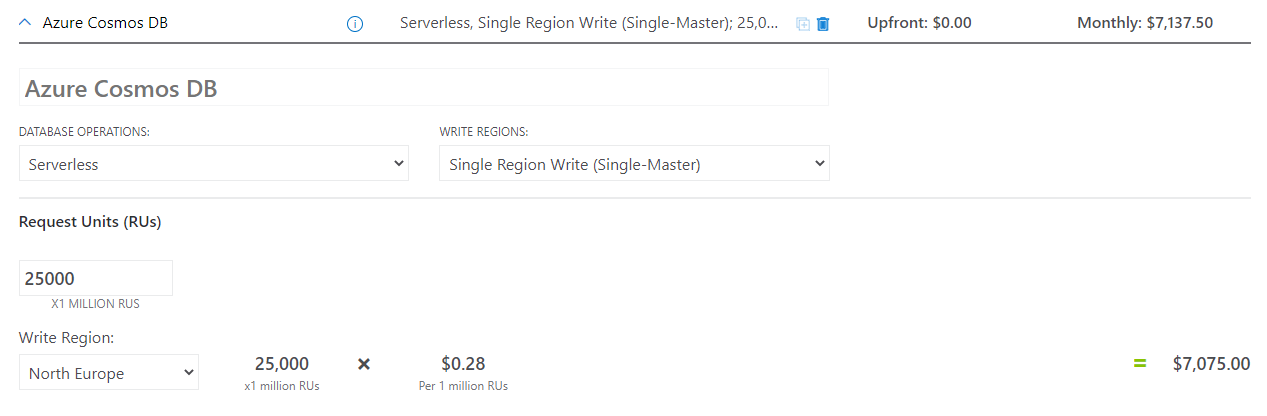
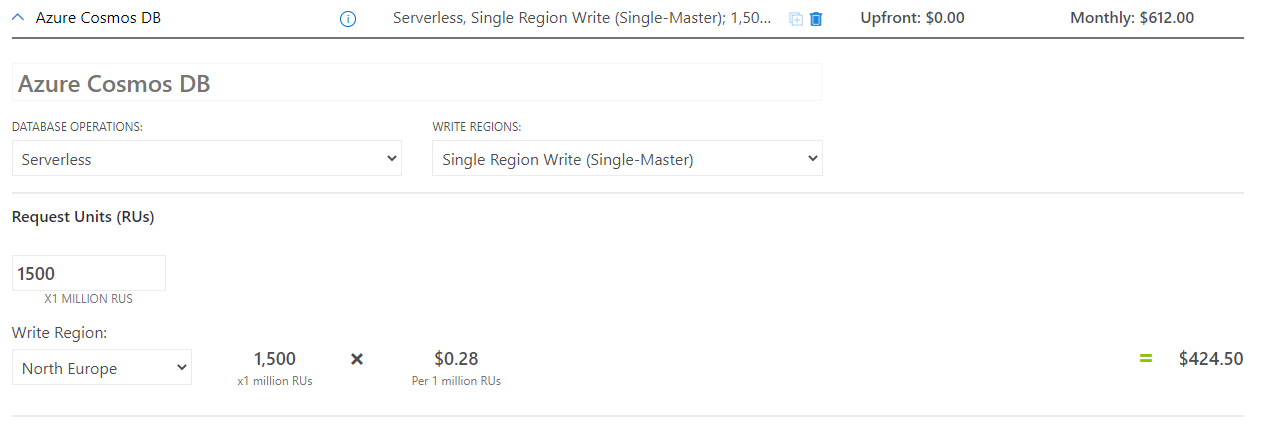
update

diff --git a/_posts/2021-09-21-databaser-i-molnet.html b/_posts/2021-09-21-databaser-i-molnet.html
@@ -252,8 +252,8 @@ background: "/img/posts/06.jpg"
 <h3>Driftkostnader för min Databas</h3>
 
 <p>
-  Med en mindre användarbas så estimerar jag med en peak på 400 RU/s per timme
-  och en transactional storage på 25gb, resulterar i en kostnad på 119.45$ i
+  Med en mindre användarbas så estimerar jag med en peak på 20 miljoner RU/s per
+  månad och en transactional storage på 25gb, resulterar i en kostnad på 5.66$ i
   månaden.
 </p>
 
@@ -266,9 +266,9 @@ background: "/img/posts/06.jpg"
 <hr />
 
 <p>
-  Med en större användarbas så estimerar jag med en peak på 25000 RU/s per timme
-  och en transactional storage på 250gb, resulterar i en kostnad på 7,137.50$ i
-  månaden.
+  Med en större användarbas så estimerar jag med en peak på 1500 miljoner RU/s
+  per månad och en transactional storage på 750gb, resulterar i en kostnad på
+  424,50$ i månaden.
 </p>
 
 <img
